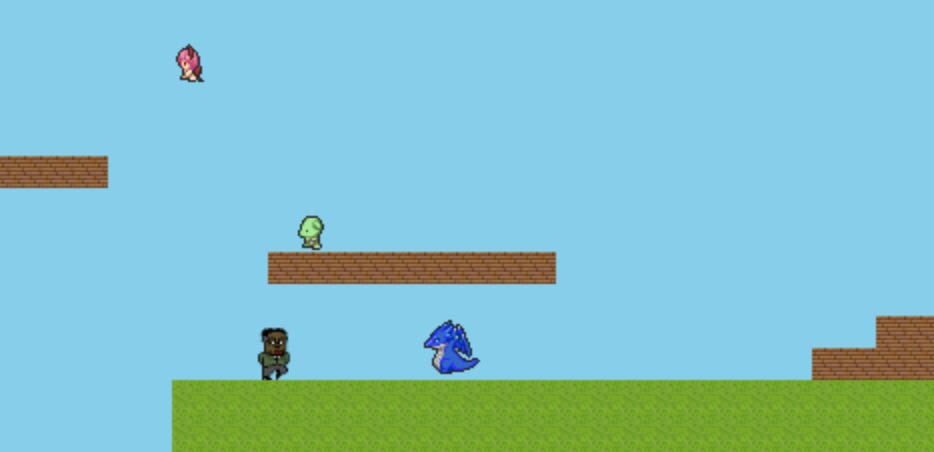
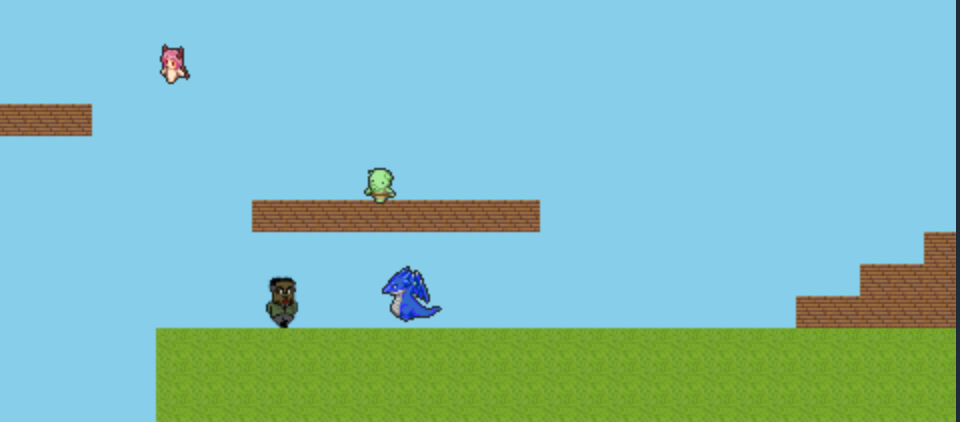
select

Changed region(s): [[0.1552, 0.0, 1.0, 1.0], [0.0, 0.2464, 0.1242, 0.4313], [0.1552, 0.0924, 0.2173, 0.2156]]

diff --git a/packages/select.html b/packages/select.html
@@ -8,7 +8,7 @@
     <a href="game.html">
     <div class="hover1">
         <div class="hover1-img">
-            <img src="../img/stage/stage1-1.png">
+            <img src="../img/stage/stage1-1.png" height="600px" width="1000px">
         </div>
         <div class="hover-text">
             <p class="text1">Tutorial</p>
@@ -20,7 +20,7 @@
     <a href="stage2.html">
         <div class="hover2">
             <div class="hover2-img">
-                <img src="../img/stage/stage1-2.png">
+                <img src="../img/stage/stage1-2.png" height="600px" width="1000px">
             </div>
             <div class="hover-text">
                 <p class="text1">Stage2</p>
@@ -33,7 +33,7 @@
     <a href="stage3.html">
         <div class="hover3">
             <div class="hover3-img">
-                <img src="../img/stage/stage1-3.png">
+                <img src="../img/stage/stage1-3.png" height="600px" width="1000px">
             </div>
             <div class="hover-text">
                 <p class="text1">Stage3</p>
@@ -45,7 +45,7 @@
     <a href="stage4.html">
         <div class="hover4">
             <div class="hover4-img">
-                <img src="../img/stage/stage1-4.png">
+                <img src="../img/stage/stage1-4.png" height="600px" width="1000px">
             </div>
             <div class="hover-text">
                 <p class="text1">Boss stage</p>

diff --git a/packages/select.css b/packages/select.css
@@ -66,7 +66,7 @@ p.caption {
 
 .hover1 .hover-text {
   position: absolute;
-  width: 100%;
+  width: 1000px;
   height: 100%;
   top: 0;
   color: #fff;
@@ -104,10 +104,9 @@ p.caption {
 
 .hover2 .hover-text {
   position: absolute;
-  width: 100%;
+  width: 1000px;
   height: 100%;
-  top: 0;
-  left: 0;
+
   color: #fff;
   background-color: rgba(0,0,0,0.65);
   /*要素の大きさを0にしt表示させない*/
@@ -142,10 +141,9 @@ p.caption {
 
 .hover3 .hover-text {
   position: absolute;
-  width: 100%;
+  width: 1000px;
   height: 100%;
-  top: 0;
-  left: 0;
+
   color: #fff;
   background-color: rgba(0,0,0,0.65);
   /*要素の大きさを0にしt表示させない*/
@@ -180,10 +178,8 @@ p.caption {
 
 .hover4 .hover-text {
   position: absolute;
-  width: 100%;
+  width: 1000px;
   height: 100%;
-  top: 0;
-  left: 0;
   color: #fff;
   background-color: rgba(0,0,0,0.65);
   /*要素の大きさを0にしt表示させない*/
